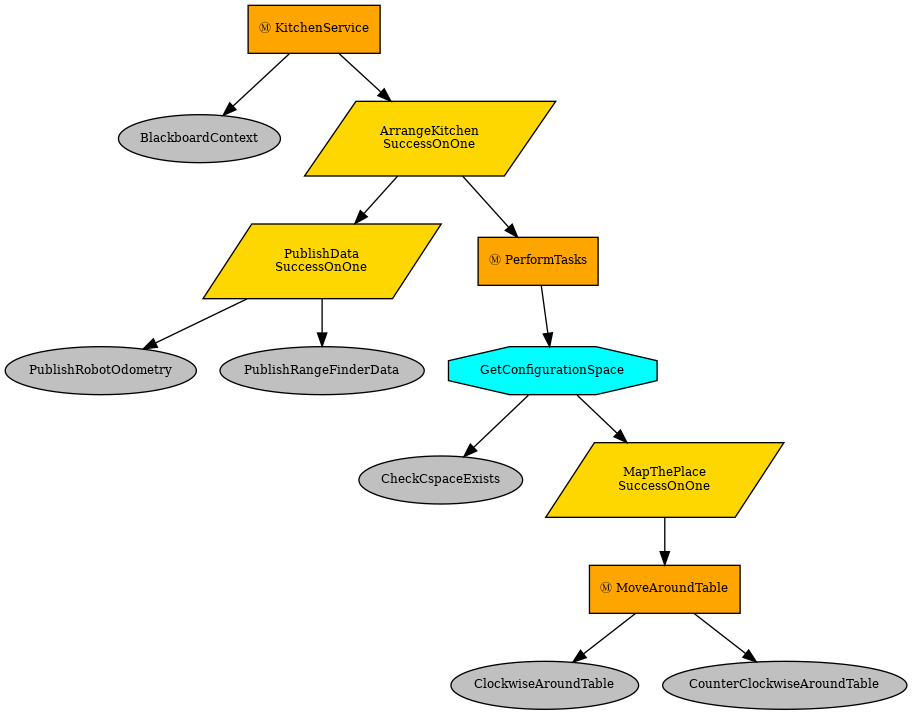
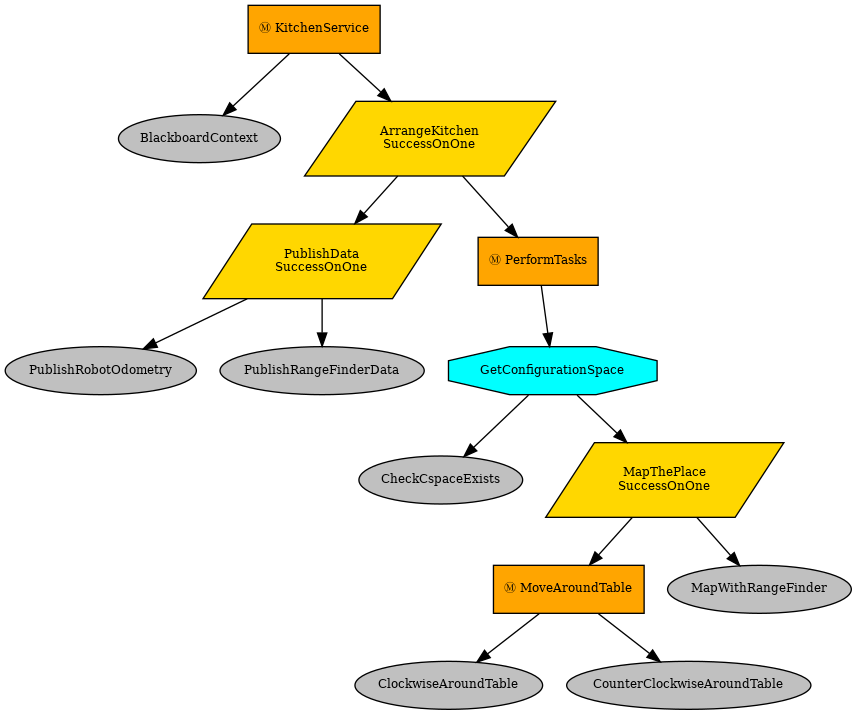
Mapping works in new architecture. But still slow.

diff --git a/controllers/kitchen_service/behaviors/mapping_behaviors.py b/controllers/kitchen_service/behaviors/mapping_behaviors.py
@@ -1,6 +1,7 @@
-import py_trees 
-import numpy as np 
-from libraries.mapping import RangeFinderMapper
+import py_trees
+import numpy as np
+from libraries.mapping import RangeFinderMapper, MappingParams, RangeFinderParams
+
 
 class CheckCspaceExists(py_trees.behaviour.Behaviour):
     def __init__(self, name: str = "CheckCspaceExists"):
@@ -25,61 +26,73 @@ class CheckCspaceExists(py_trees.behaviour.Behaviour):
             % (self.__class__.__name__, self.status, new_status)
         )
 
-# class MapWithRangeFinder(py_trees.behaviour.Behaviour):
-#     """
-#     Make the robot go around a predefined list of waypoints and map the environment while its moving.
-#     """
 
-#     def __init__(self, name: str = "MapWithRangeFinder"):
-#         super(MapWithRangeFinder, self).__init__(name)
-#         self.logger.info("%s.__init__()" % (self.__class__.__name__))
+class MapWithRangeFinder(py_trees.behaviour.Behaviour):
+    """
+    Make the robot go around a predefined list of waypoints and map the environment while its moving.
+    """
 
-#         self._blackboard = self.attach_blackboard_client()
-#         self._blackboard.register_key(
-#             key="timestep", access=py_trees.common.Access.READ
-#         )
-#         self.blackboard.register_key(
-#             key="range_finder_params", access=py_trees.common.Access.READ
-#         )
-#         self.blackboard.register_key(
-#             key="mapping_params", access=py_trees.common.Access.READ
-#         )
-#         self._blackboard.register_key(
-#             key="map_display", access=py_trees.common.Access.EXCLUSIVE_WRITE
-#         )
-#         self._blackboard.register_key(
-#             key="marker", access=py_trees.common.Access.READ
-#         )
+    def __init__(
+        self,
+        display: bool,
+        name: str = "MapWithRangeFinder",
+    ):
+        super(MapWithRangeFinder, self).__init__(name)
+        self.logger.info("%s.__init__()" % (self.__class__.__name__))
+        self._blackboard = self.attach_blackboard_client()
+        self._blackboard.register_key(
+            key="timestep", access=py_trees.common.Access.READ
+        )
+        self._blackboard.register_key(
+            key="range_finder_params", access=py_trees.common.Access.READ
+        )
+        self._blackboard.register_key(
+            key="mapping_params", access=py_trees.common.Access.READ
+        )
+        self._blackboard.register_key(
+            key="range_finder_readings", access=py_trees.common.Access.READ
+        )
+        self._blackboard.register_key(
+            key="se2_pose", access=py_trees.common.Access.READ
+        )
+        self._blackboard.register_key(
+            key="display", access=py_trees.common.Access.WRITE
+        )
 
-#     def setup(self, **kwargs: int) -> None:
+        self._display = display
 
-#         self.logger.debug("%s.setup()" % (self.__class__.__name__))
+    def setup(self, **kwargs: int) -> None:
 
-#         self._timestep = self._blackboard.timestep
-#         self._map_display = self._blackboard.map_display
+        self.logger.debug("%s.setup()" % (self.__class__.__name__))
 
-#         self._mapper = RangeFinderMapper(
-#             self._range_finder,
-#             mapping_params_filepath="config/mapping_params.yaml",
-#             range_finder_params_filepath="config/range_finder_params.yaml",
-#         )
-#         self._mapper.enable_lidar(self._timestep)
+        self._timestep = self._blackboard.timestep
 
-#     def update(self) -> py_trees.common.Status:
+        self._mapper = RangeFinderMapper(
+            mapping_params=MappingParams("config/mapping_params.yaml"),
+            range_finder_params=RangeFinderParams("config/hokuyo_params.yaml"),
+        )
 
-#         xw, yw, theta = self._robot_comms.get_se2_pose()
-#         self._mapper.generate_map((xw, yw, theta))
-#         # self._mapper.display_map(self._map_display)
-#         self.logger.info(f"{self.name}.update(), Map generating....")
-#         return py_trees.common.Status.RUNNING
+    def update(self) -> py_trees.common.Status:
 
-#     def terminate(self, new_status: py_trees.common.Status) -> None:
-#         """
-#         Save the cspace from the map generated so far.
-#         """
-#         cspace = self._mapper.compute_cspace()
-#         self._mapper.save_cspace(cspace)
-#         self.logger.info(
-#             "%s.terminate()[%s->%s], Cspace saved."
-#             % (self.__class__.__name__, self.status, new_status)
-#         )
+        xw, yw, theta = self._blackboard.se2_pose
+        self._mapper.generate_map(
+            range_finder_readings=self._blackboard.range_finder_readings,
+            robot_pose=(xw, yw, theta),
+        )
+        self.logger.debug(f"{self.name}.update(), Map generating....")
+
+        if self._display:
+            self._mapper.display_map(self._blackboard.display)
+
+        return py_trees.common.Status.RUNNING
+
+    def terminate(self, new_status: py_trees.common.Status) -> None:
+        """
+        Save the cspace from the map generated so far.
+        """
+        cspace = self._mapper.compute_cspace()
+        self._mapper.save_cspace(cspace)
+        self.logger.info(
+            "%s.terminate()[%s->%s], Cspace saved."
+            % (self.__class__.__name__, self.status, new_status)
+        )

diff --git a/libraries/mapping.py b/libraries/mapping.py
@@ -71,8 +71,8 @@ class RangeFinderParams:
 
 
 class Mapper:
-    def __init__(self, mapping_params_filepath):
-        self._mapping_params = MappingParams(mapping_params_filepath)
+    def __init__(self, mapping_params: MappingParams):
+        self._mapping_params = mapping_params
         self._map = np.zeros(
             (self._mapping_params.map_width, self._mapping_params.map_height),
             dtype=float,
@@ -140,11 +140,11 @@ class Mapper:
 class RangeFinderMapper(Mapper):
     def __init__(
         self,
-        mapping_params: dict,
-        range_finder_params: dict,
+        mapping_params: MappingParams,
+        range_finder_params: RangeFinderParams,
     ):
         super().__init__(mapping_params)
-        self._lidar_params = RangeFinderParams(range_finder_params)
+        self._range_finder_params = range_finder_params
 
     def _lidar_robot_to_world(self, range_finder_readings, xw, yw, theta) -> np.array:
         X_i = range_finder_readings
@@ -164,7 +164,7 @@ class RangeFinderMapper(Mapper):
         )
         px_robot, py_robot = self.world2map(robot_pose[0], robot_pose[1])
 
-        for i in range(self._lidar_params.actual_num_readings):
+        for i in range(self._range_finder_params.actual_num_readings):
             px, py = self.world2map(X_w[0][i], X_w[1][i])
             if self._map[px, py] < 1:
                 self._map[px, py] += 0.01

diff --git a/controllers/kitchen_service/kitchen_service.py b/controllers/kitchen_service/kitchen_service.py
@@ -19,7 +19,7 @@ from libraries.robot_device_io import RobotDeviceIO
 
 from behaviors.blackboard_context import BlackboardContext
 from behaviors.publishers import PublishRobotOdometry, PublishRangeFinderData
-from behaviors.mapping_behaviors import CheckCspaceExists
+from behaviors.mapping_behaviors import CheckCspaceExists, MapWithRangeFinder
 from libraries.mapping import MappingParams, RangeFinderParams
 from behaviors.navigation_behaviors import NavigateThroughPoints
 
@@ -50,11 +50,12 @@ def create_mapping_tree() -> py_trees.behaviour.Behaviour:
         memory=True,
         children=[clockwise_around_table, counter_clockwise_around_table],
     )
+    generate_map = MapWithRangeFinder(display=False)
 
     map_the_place = py_trees.composites.Parallel(
         name="MapThePlace",
         policy=py_trees.common.ParallelPolicy.SuccessOnOne(),
-        children=[move_around_table],
+        children=[move_around_table, generate_map],
     )
     root = py_trees.composites.Selector(
         name="GetConfigurationSpace",
@@ -128,7 +129,7 @@ def main():
         range_finder=range_finder,
         range_finder_params=range_finder_params,
         mapping_params=mapping_params,
-        map_display=map_display,
+        display=map_display,
         marker=marker,
     )
 

diff --git a/controllers/kitchen_service/behaviors/blackboard_context.py b/controllers/kitchen_service/behaviors/blackboard_context.py
@@ -35,7 +35,7 @@ class BlackboardContext(py_trees.behaviour.Behaviour):
             key="mapping_params", access=py_trees.common.Access.WRITE
         )
         self._blackboard.register_key(
-            key="map_display", access=py_trees.common.Access.WRITE
+            key="display", access=py_trees.common.Access.WRITE
         )
         self._blackboard.register_key(
             key="marker", access=py_trees.common.Access.WRITE
@@ -53,7 +53,7 @@ class BlackboardContext(py_trees.behaviour.Behaviour):
         self._blackboard.set(
             name="range_finder_params", value=kwargs["range_finder_params"]
         )
-        self._blackboard.set(name="map_display", value=kwargs["map_display"])
+        self._blackboard.set(name="display", value=kwargs["display"])
         self._blackboard.set(name="marker", value=kwargs["marker"])
 
         self.logger.info(
